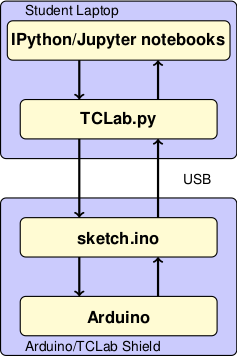
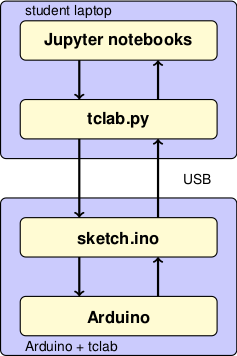
update latex image

diff --git a/notebooks/images/TCLabOverview.tex b/notebooks/images/TCLabOverview.tex
@@ -11,44 +11,44 @@
 \begin{sansmath}
  
 \tikzstyle{block} = [
-	draw, 
-	minimum height = 1.0cm,
-	minimum width = 5.0cm,
-	rounded corners,
-	fill=yellow!20,
-	rectangle,
-	text centered]
-	
+    draw, 
+    minimum height = 1.0cm,
+    minimum width = 5.0cm,
+    rounded corners,
+    fill=yellow!20,
+    rectangle,
+    text centered]
+
 \tikzstyle{env} = [
-	draw, 
-	minimum height = 4.0cm,
-	minimum width = 6.0cm,
-	rounded corners,
-	fill=blue!20,
-	rectangle,
-	text centered]
-	
+    draw, 
+    minimum height = 4.0cm,
+    minimum width = 6.0cm,
+    rounded corners,
+    fill=blue!20,
+    rectangle,
+    text centered]
+
 \begin{tikzpicture}[auto,thick,node distance = 1cm]
     %\draw[step=1cm,gray,very thin] (0,0) grid (16,9);
   
-  	\draw (5,7) node[env] (laptop) {};
-  	\draw (5,2) node[env] (device) {};
-  	\draw (5,8) node[block] (top) {\large\bf IPython/Jupyter notebooks};
-  	\draw (5,6) node[block] (mid) {\large\bf TCLab.py};
-  	\draw (5,3) node[block] (bot) {\large\bf sketch.ino};
-  	\draw (5,1) node[block] (ard) {\large\bf Arduino};
-  	
-	\draw[->, ultra thick] (top) ++(-1,-0.5) -- ++(0,-1);
-	\draw[->, ultra thick] (mid) ++(-1,-0.5) -- ++(0,-2);
-	\draw[->, ultra thick] (bot) ++(-1,-0.5) -- ++(0,-1);
+    \draw (5,7) node[env] (laptop) {};
+    \draw (5,2) node[env] (device) {};
+    \draw (5,8) node[block] (top) {\large\bf Jupyter notebooks};
+    \draw (5,6) node[block] (mid) {\large\bf tclab.py};
+    \draw (5,3) node[block] (bot) {\large\bf sketch.ino};
+    \draw (5,1) node[block] (ard) {\large\bf Arduino};
 
-	\draw[<-, ultra thick] (top) ++(1,-0.5) -- ++(0,-1);
-	\draw[<-, ultra thick] (mid) ++(1,-0.5) -- ++(0,-2);
-	\draw[<-, ultra thick] (bot) ++(1,-0.5) -- ++(0,-1);
-	
-	\draw (7,4.5) node {USB};
-	\draw (2.5,8.75) node[right] {Student Laptop};
-	\draw (2.5,0.25) node[right] {Arduino/TCLab Shield};	
+    \draw[->, ultra thick] (top) ++(-1,-0.5) -- ++(0,-1);
+    \draw[->, ultra thick] (mid) ++(-1,-0.5) -- ++(0,-2);
+    \draw[->, ultra thick] (bot) ++(-1,-0.5) -- ++(0,-1);
+
+    \draw[<-, ultra thick] (top) ++(1,-0.5) -- ++(0,-1);
+    \draw[<-, ultra thick] (mid) ++(1,-0.5) -- ++(0,-2);
+    \draw[<-, ultra thick] (bot) ++(1,-0.5) -- ++(0,-1);
+
+    \draw (7,4.5) node {USB};
+    \draw (2.5,8.75) node[right] {student laptop};
+    \draw (2.5,0.25) node[right] {Arduino + tclab};	
 
 \end{tikzpicture}
 \end{sansmath}
